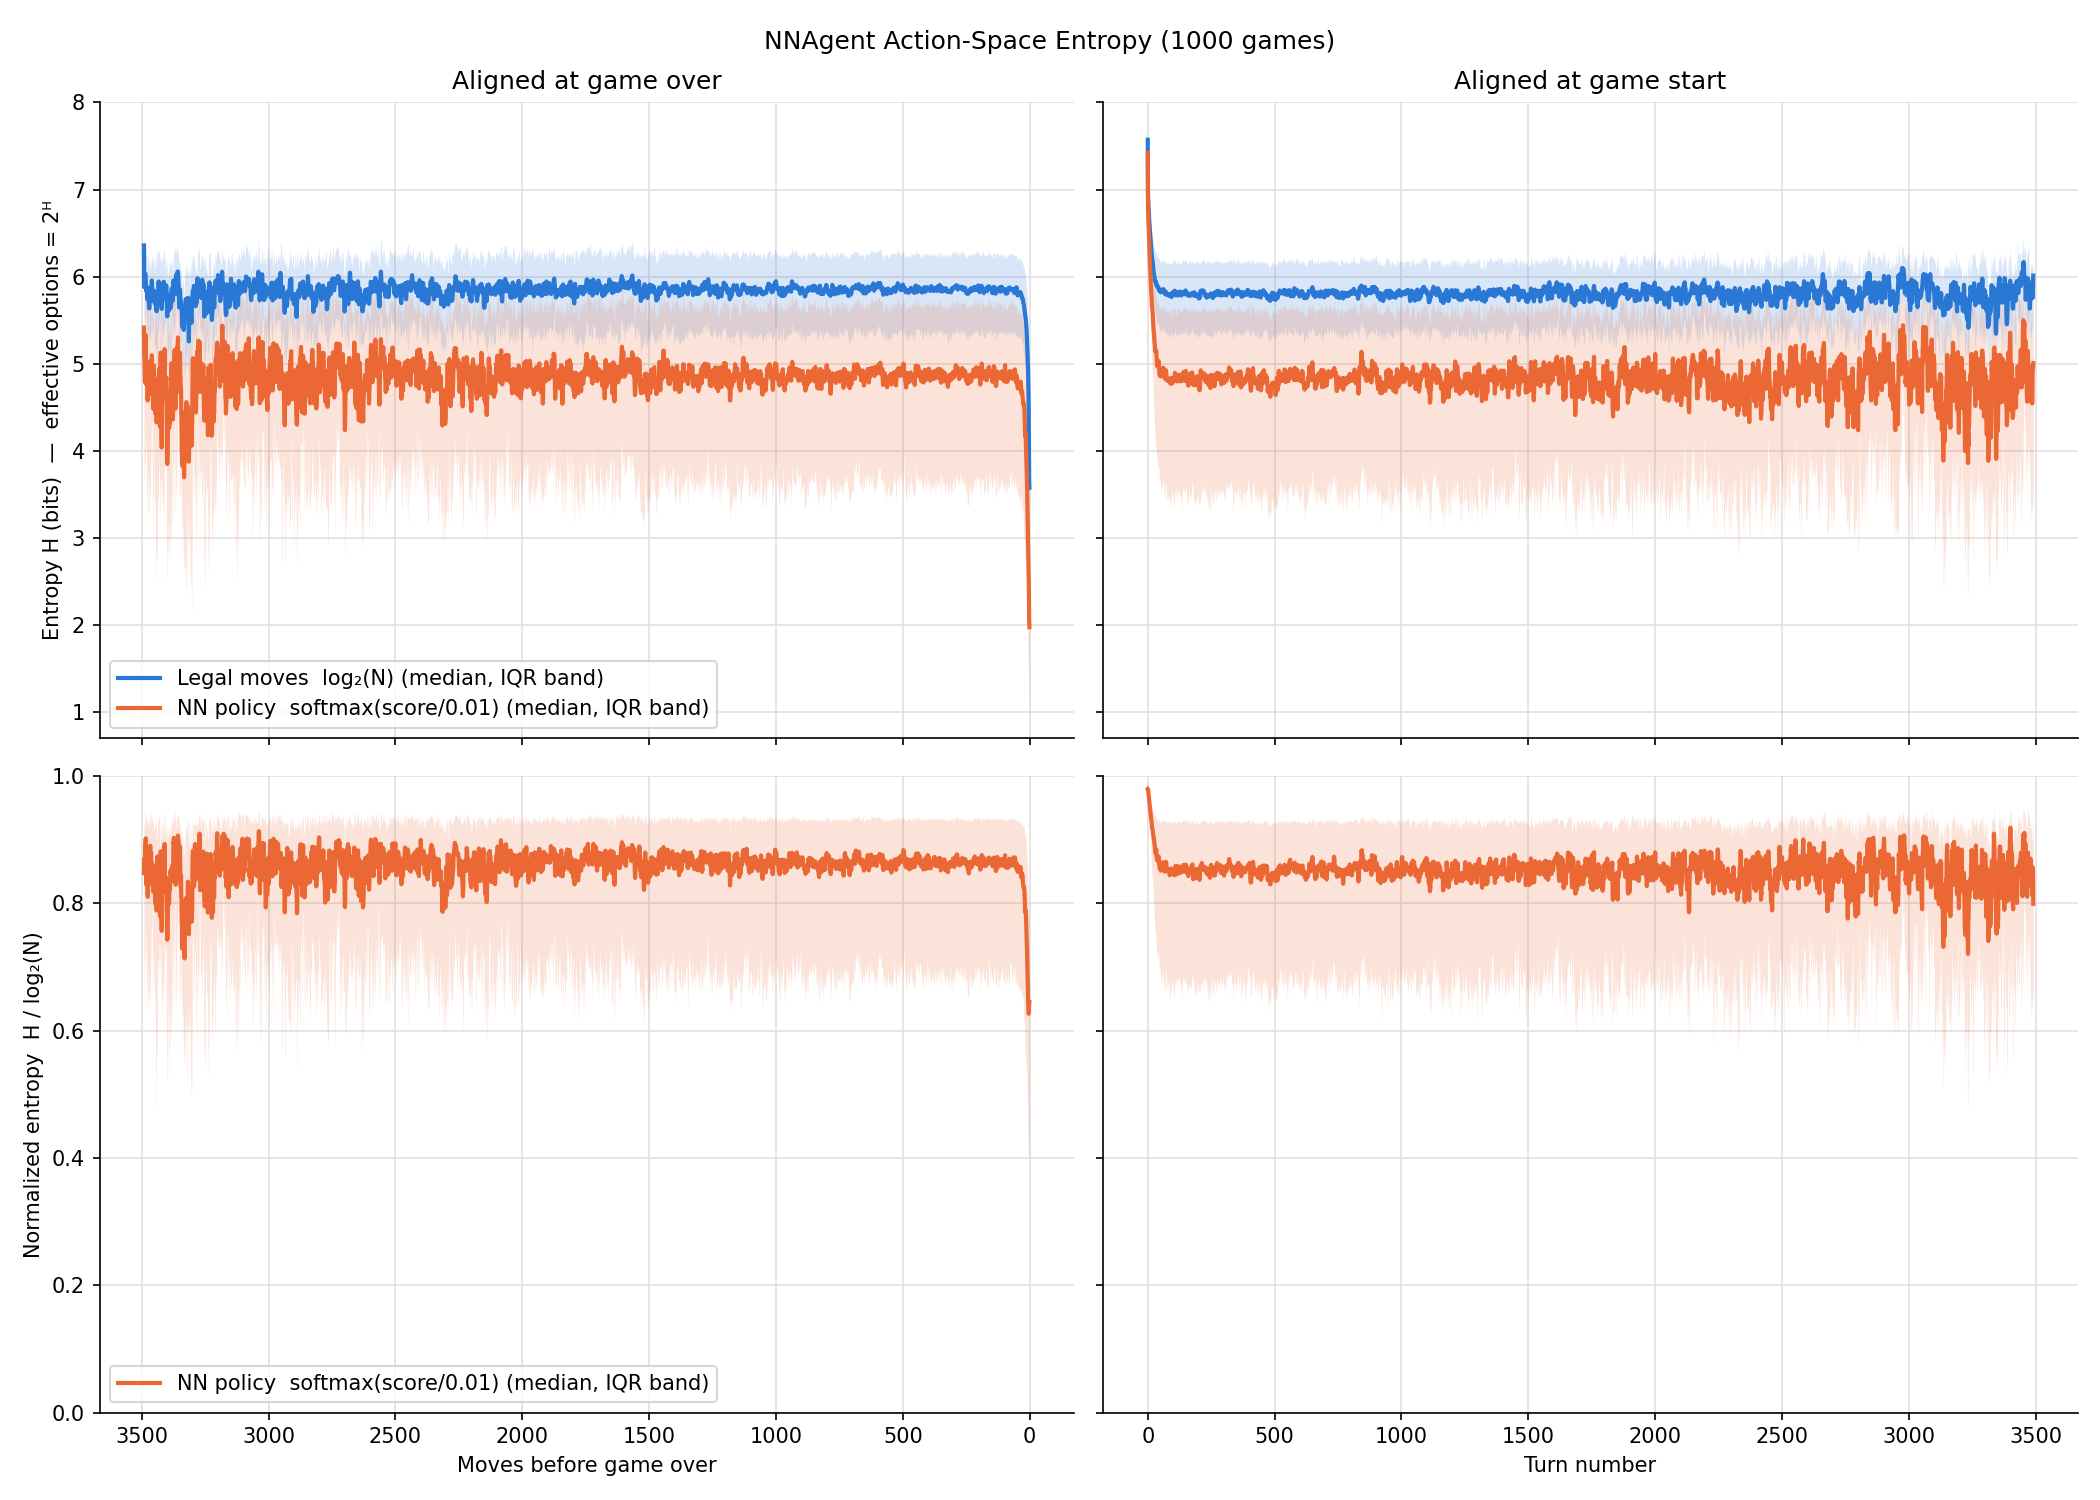
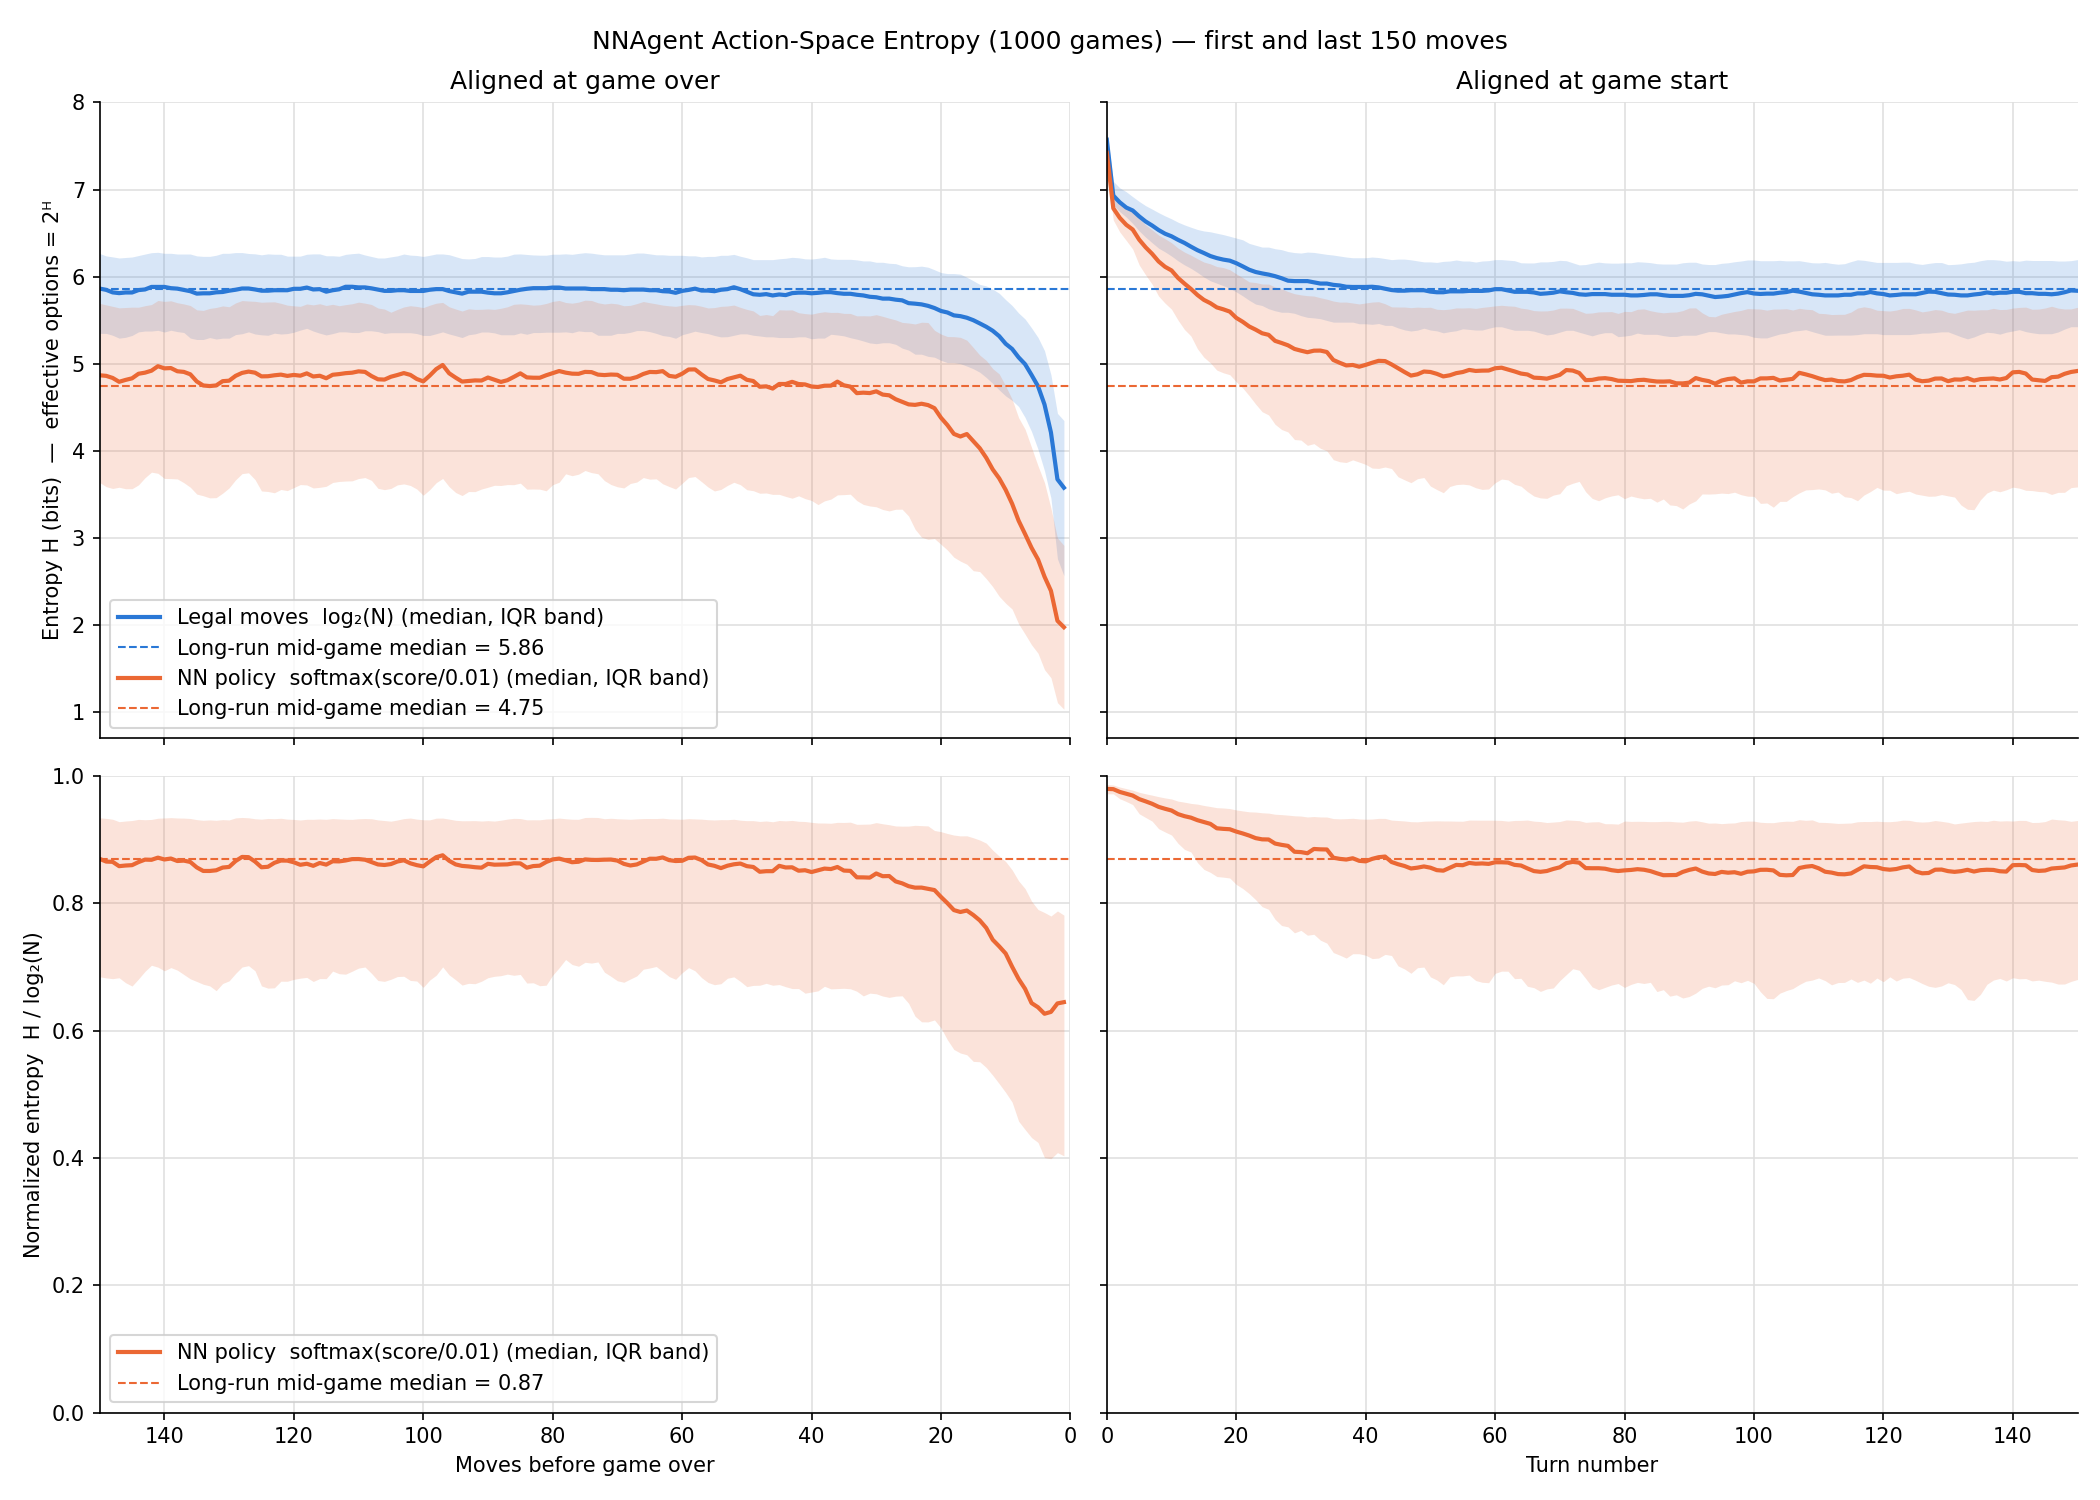
updated charts for clarity

diff --git a/content/posts/tenten.md b/content/posts/tenten.md
@@ -189,20 +189,26 @@ that in mind, luck comes back later.
 
 {{< lightbox src="/images/tenten/action_entropy.png" alt="Legal-move and agent entropy over the course of a game" >}}
 
-The top row shows both entropies over the course of a game (blue for legal moves, orange for the agent). On the left
-the games are lined up by when they ended, on the right by when they started. Lines are the median across games, the
-bands cover the middle 50%.
+The top row shows both entropies at the start and end of a game (blue for legal moves, orange for the agent). I've
+cropped it to the first and last 150 moves, because that's where everything happens. The middle of the game is flat
+all the way through. On the left the games are lined up by when they ended, on the right by when they started. Lines
+are the median across games, the bands cover the middle 50%, and the dashed lines are the typical mid-game value.
 
 A few things stand out:
 
-- **There's a lot of choice, but it can be narrowed down.** A typical board allows ~53 legal moves (5.7 bits), but the
-  agent only treats ~22 of them as serious candidates (4.5 bits). That feels like a good place for a puzzle game to
-  sit. It's far from obvious, but it's not an overwhelming Go-style wall of options either. And
-  it's not the case that every move is as good as any other.
-- **It's remarkably flat.** After the opening (the empty board allows loads of moves), both entropies settle within
-  ~30–50 turns and then stay flat for hundreds, even thousands, of moves. The board doesn't slowly fill up over time.
-- **Then it collapses.** Over the last ~20–30 moves both drop sharply. The agent's entropy starts falling slightly
-  before the legal-move count, which fits running out of *good* moves before you run out of *legal* ones.
+- **There's a lot of choice, but it can be narrowed down.** A typical mid-game board allows ~58 legal moves (5.9
+  bits), but the agent only treats ~27 of them as serious candidates (4.75 bits). That feels like a good place for a
+  puzzle game to sit. It's far from obvious, but it's not an overwhelming Go-style wall of options either. And it's
+  not the case that every move is as good as any other.
+- **It's remarkably flat.** After the opening (the empty board allows loads of moves), the legal-move count settles
+  within ~40 turns and the agent within ~50. Then both sit on the dashed line for hundreds, even thousands, of moves.
+  The board doesn't slowly fill up over time.
+- **Then it collapses.** The agent's entropy starts to fall ~35–40 moves before game over, about 10 moves before the
+  legal-move count, and both drop steeply over the last ~10. That fits running out of *good* moves before you run
+  out of *legal* ones.
+- **The agent gets more decisive under pressure.** The bottom row divides the agent's entropy by the legal-move
+  entropy. It starts near 1 on the empty board (almost every move looks fine), settles at ~0.87, then drops to ~0.63
+  over the last ~25 moves as one move increasingly stands out.
 
 The medians hide a lot of move-to-move variety though. Here are the first 100 moves of 10 individual games, with each
 hand of 3 shaded:
@@ -216,16 +222,22 @@ best (probably a line clear on offer), and longer troughs lasting several hands 
 
 {{< lightbox src="/images/tenten/action_entropy_hand_cycle.png" alt="Entropy by position in the 3-piece hand" >}}
 
-Splitting this up by position in the hand makes the rhythm clear:
+Splitting the mid-game up by position in the hand makes the rhythm clear. The boxes cover the middle 50% of moves,
+and the medians are:
 
 | | 1st piece (3 in hand) | 2nd piece (2 in hand) | 3rd piece (1 in hand) |
 |---|---|---|---|
 | Legal moves | 6.52 bits | 6.00 bits | 4.95 bits |
 | Agent | 5.06 bits | 5.21 bits | 4.31 bits |
 
-The board's freedom pulses strongly with the hand, but the agent's decisions only weakly do. Having 3 pieces gives
-you more placements, but it doesn't make the decision harder, and the 2nd piece is actually the hardest call. My guess (untested) is that with 3 pieces the playing order
-matters a lot, e.g. setting up a line clear, which makes one move stand out.
+The legal moves fall by ~1.6 bits across every hand, from ~90 options on the 1st piece to ~30 on the 3rd. With one
+piece left there's nothing easier to fall back on, so the last piece is where the board runs out of room.
+
+The agent's cycle is much weaker. The 3rd piece is the most decisive, but the 2nd is actually the hardest call, not
+the 1st. More telling is the size of the agent's boxes: they're far taller than the legal-move ones and overlap
+heavily, so how hard a decision is depends much more on the position than on where you are in the hand. My guess
+(untested) for the 1st piece is that with 3 pieces the playing order matters a lot, e.g. setting up a line clear,
+which makes one move stand out.
 
 ### Inevitability of outcome
 
@@ -270,7 +282,7 @@ The endings come in roughly three flavours:
 ### What do these metrics tell us about 1010!?
 
 On **complexity of decision-making**, 1010! sits in a sweet spot. There are always plenty of legal moves, but the agent can narrow them down
-to a manageable shortlist of ~22. That stays consistent for the whole game, until the final crunch.
+to a manageable shortlist of ~27. That stays consistent for the whole game, until the final crunch.
 
 On **inevitability of outcome**, 1010! is very much *not* inevitable, and I think that's a big part of why it works.
 Being halfway through a game tells you almost nothing about how it'll end. A bad position is usually recoverable,
@@ -387,7 +399,7 @@ score for the best move available there.
   best and the median move is only ~0.01–0.06, so at $T = 1$ every move would look equally likely. $T$ is a free
   parameter. The patterns hold across temperatures, but the absolute numbers depend on it.
 - **Normalised entropy:** $H / \log_2 N$, from 0 to 1. This is the agent's decisiveness *relative to* how many options
-  it has (the bottom row of the entropy chart). It sits at ~0.85 for most of the game and dips to ~0.63 at the
+  it has (the bottom row of the entropy chart). It sits at ~0.87 for most of the game and dips to ~0.63 at the
   end.
 - **Mid-game:** turn 30 onwards, excluding the last 30 moves. Used for the steady-state analyses, because entropy and
   value are still settling after the empty board early on, and collapse at the end.
